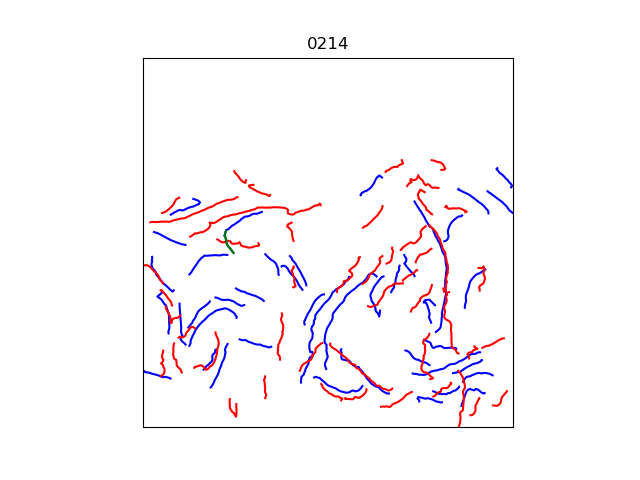
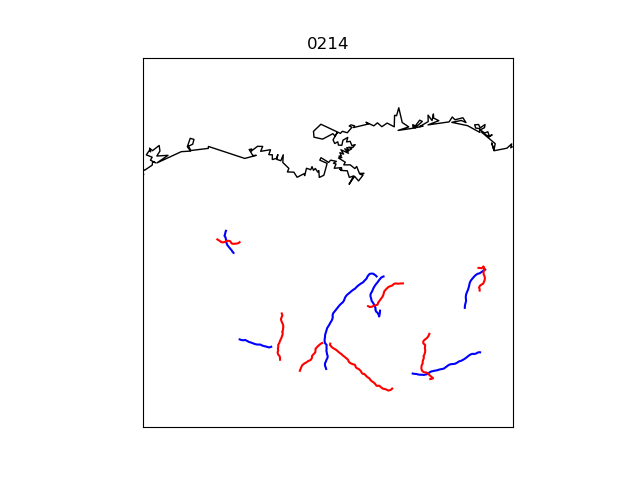
updates

diff --git a/G_rtofs/calculate_eulerian.py b/G_rtofs/calculate_eulerian.py
@@ -1,0 +1,106 @@
+import mapping_functions as mf
+#from mpl_toolkits.basemap import Basemap
+from netCDF4 import Dataset
+import numpy as np
+from scipy.interpolate import griddata
+import matplotlib.pyplot as plt
+plt.close('all')
+#25N
+#-90E
+
+
+root = Dataset('data/07_08_2019/rtofs_glo_2ds_f000_1hrly_prog.nc','r')
+vars = root.variables #dictionary, all variables in dataset\
+lon = vars['Longitude'][:-1,:]-360
+lat = vars['Latitude'][:-1,:]
+u = vars['u_velocity'][:,:,:-1,:].squeeze()
+v = vars['v_velocity'][:,:,:-1,:].squeeze()
+del vars
+root.close()
+
+x,y = mf.lonlat2km(-90,25,lon,lat,std_lat1=20,std_lat2=30)
+del lon, lat
+
+
+plt.figure()
+plt.pcolormesh(x,y,np.sqrt(u**2+v**2),vmin=0,vmax=3)#np.sqrt(u**2+v**2))
+plt.xlim([-900,1100])
+plt.ylim([-800,800])
+plt.colorbar()
+
+u = u[x>=-1000]
+v = v[x>=-1000]
+y = y[x>=-1000]
+x = x[x>=-1000]
+
+u = u[x<=1200]
+v = v[x<=1200]
+y = y[x<=1200]
+x = x[x<=1200]
+
+u = u[y>=-900]
+v = v[y>=-900]
+x = x[y>=-900]
+y = y[y>=-900]
+
+u = u[y<=900]
+v = v[y<=900]
+x = x[y<=900]
+y = y[y<=900]
+
+v[u.mask] = np.nan
+u[u.mask] = np.nan
+
+u[v.mask] = np.nan
+v[v.mask] = np.nan
+
+points = list(zip(x,y))
+xdim=400
+ydim=int(np.ceil(xdim*4/5))
+xx = np.linspace(-900,1100,xdim)
+dx = xx[1]-xx[0]
+yy = np.linspace(-800,800,ydim)
+dy = yy[1]-yy[0]
+xx,yy = np.meshgrid(xx,yy)
+
+Xi= list(zip(xx.ravel(),yy.ravel()))
+
+uu = griddata(points,u,Xi)
+vv = griddata(points,v,Xi)
+del points, Xi
+x = np.reshape(xx,(ydim,xdim))
+y = np.reshape(yy,(ydim,xdim))
+u = np.reshape(uu,(ydim,xdim))
+v = np.reshape(vv,(ydim,xdim))
+del uu,vv,xx,yy
+
+plt.figure()
+plt.pcolormesh(x,y,np.sqrt(u**2+v**2),vmin=0,vmax=3)#np.sqrt(u**2+v**2))
+plt.xlim([-900,1100])
+plt.ylim([-800,800])
+plt.colorbar()
+
+
+dx *=1000
+dy *=1000
+dudy,dudx = np.gradient(u,dy,dx)
+dvdy,dvdx = np.gradient(v,dy,dx)
+s1 = np.empty((ydim,xdim))
+for i in range(ydim):
+    for j in range(xdim):
+        if ~np.isnan(dudy[i,j]) and ~np.isnan(dudx[i,j]) and ~np.isnan(dvdy[i,j]) and ~np.isnan(dvdx[i,j]):
+            Grad_v = np.array([[dudx[i,j],dudy[i,j]],[dvdx[i,j],dvdy[i,j]]])
+            S = 0.5*(Grad_v + Grad_v.T)
+            s1[i,j] = np.min(np.linalg.eig(S)[0])
+            
+        else:
+            s1[i,j]=np.nan
+            
+            
+        
+plt.figure()
+plt.pcolormesh(x,y,-s1)#np.sqrt(u**2+v**2))
+plt.xlim([-900,1100])
+plt.ylim([-800,800])
+plt.colorbar()
+#plt.scatter(0,0)

diff --git a/G_rtofs/eulerian_ridges.py b/G_rtofs/eulerian_ridges.py
@@ -296,6 +296,40 @@ m.drawcoastlines()
 plt.savefig('{:04d}_all.png'.format(000))
 plt.close('all')
 #size_a = []
+pp = aridge.collections[1].get_paths()
+qq = rridge.collections[1].get_paths()
+for p2 in [74,79,119,155,160,214]:#,255range(len(pp)):
+    v = pp[p2].vertices
+    x = v[:,0]
+    y = v[:,1]
+    #size_a.append(x.size)
+    if x.size >= 20:
+        m.plot(x,y,'b-')#, latlon=True)
+        #m.drawcoastlines()
+        #plt.title('{:04d}'.format(p))
+        #plt.savefig('{:03d}_attracting.png'.format(p))
+        #plt.close('all')
+    
+        #size_r=[]
+for q2 in [58,75,96,118,185,220,315]:#,309]: #:range(len(qq)):
+    v = qq[q2].vertices
+    x = v[:,0]
+    y = v[:,1]
+    #size_r.append(x.size)
+    if x.size >= 15:
+        m.plot(x,y,'r-')#, latlon=True)
+        #m.drawcoastlines()
+        #plt.title('{:04d}'.format(p))
+        #plt.savefig('{:03d}_repelling.png'.format(p))
+        #plt.close('all')
+m.drawcoastlines()
+plt.title('{:04d}'.format(p2))
+plt.savefig('attracting{:03d}.png'.format(p2))
+#plt.close('all')
+
+
+
+"""
 print('attracting')
 pp = aridge.collections[1].get_paths()
 qq = rridge.collections[1].get_paths()
@@ -317,7 +351,7 @@ for p in range(len(pp)):
                 #plt.close('all')
     
         #size_r=[]
-        for q2 in range(len(qq)):
+        for q2 in [58,75,96,118,185,220,309,315]: #:range(len(qq)):
             v = qq[q2].vertices
             x = v[:,0]
             y = v[:,1]
@@ -332,7 +366,7 @@ for p in range(len(pp)):
         plt.title('{:04d}'.format(p))
         plt.savefig('attracting{:03d}.png'.format(p))
         plt.close('all')
-        
+
 print('repelling')        
 for q in range(len(qq)):
     v = qq[q].vertices
@@ -368,7 +402,7 @@ for q in range(len(qq)):
         plt.savefig('repelling{:03d}.png'.format(q))
         plt.close('all')
 
-
+"""
 
 
 
